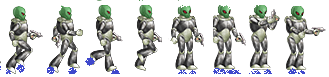
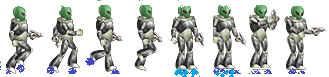
boton

Changed region(s): [[0.5167, 0.8831, 0.6079, 1.0], [0.6383, 0.9091, 0.7295, 1.0]]

diff --git a/index.html b/index.html
@@ -11,11 +11,33 @@
             box-sizing: border-box;
             align-items: center;
         }
-        
+        .contenedor{
+            display: flex;
+            top:550px;
+            margin-left: 10px;
+            flex-direction: row;
+            position:fixed;
+            width: 200px;
+            height: 60px;
+        }
+        button{
+            display: flex;
+            margin-left: 10px;
+            width: 50px;
+            height: 50px;
+            border-radius: 100px;
+            border-color: black 2px solid;
+            background-color: green;
+
+        }
     </style>
 </head>
 <body>
-  
+    <div class="contenedor"> 
+        <button id="btnI"></button>
+        <button id="btnA"></button>
+        <button id="btnD"></button>
+    </div>
     <script>
         var config = {
             type: Phaser.AUTO,
@@ -24,7 +46,7 @@
             physics: {
                 default: 'arcade',
                 arcade:{
-                    gravity: { y: 140}
+                    gravity: { y: 200}
                 }
             },
             scene: {
@@ -36,19 +58,31 @@
         var game = new Phaser.Game(config);
         var player;
         var cursors;
+        var platforms;
         function preload () {
             this.load.image('fondo','imagen/fondo.png');
             this.load.image('virus','imagen/corona.png');
             this.load.image('halo','imagen/halo.png');
             this.load.image('ed','imagen/enemies.png');
             this.load.image('ed2','imagen/enemies.png');
-            this.load.spritesheet('alien','imagen/alienB.png',{frameHeight: 69, frameWidth: 41});
+            this.load.image('plataforma','imagen/Plataforma.png');
+            this.load.spritesheet('alien','imagen/alienBb.png',{frameHeight: 73, frameWidth: 41});
 
         }
 
         function create(){
             this.add.image(400,300,'fondo');
-            player = this.physics.add.sprite(100,450,'alien');
+            player = this.physics.add.sprite(50,50,'alien');
+
+            platforms = this.physics.add.staticGroup();
+            platforms.create(350,550,'plataforma').setScale(2).refreshBody();
+            platforms.create(300,450,'plataforma');
+            platforms.create(150,370,'plataforma').setScale(2).refreshBody();
+            platforms.create(500,150,'plataforma');
+            platforms.create(300,250,'plataforma');
+            
+
+
             var particles = this.add.particles('virus');
             var part = this.add.particles('virus');
             var haloA = this.add.particles('halo');
@@ -86,6 +120,14 @@
             emitter2.startFollow(bacteria2);
             emitter.startFollow(bacteria);
             emitter3.startFollow(player);
+
+            this.physics.add.collider(player,platforms);
+            this.physics.add.collider(player,bacteria);
+            this.physics.add.collider(player,bacteria2);
+            this.physics.add.collider(bacteria,bacteria2);
+            this.physics.add.collider(bacteria,platforms);
+            this.physics.add.collider(bacteria2,platforms);
+
            
 
             this.anims.create({
@@ -121,6 +163,19 @@
 
             cursors = this.input.keyboard.createCursorKeys();
         }
+        const boton_I = document.querySelector('#btnI');
+        boton_I.addEventListener('click', function(){
+            player.setVelocityX(-490);
+        });
+        const boton_D = document.querySelector('#btnD');
+        boton_D.addEventListener('click', function(){
+            player.setVelocityX(490);
+        });
+        const boton_A = document.querySelector('#btnA');
+        boton_A.addEventListener('click', function(){
+            player.setVelocityY(-130);
+        });
+
         function update(){
             if (cursors.left.isDown){
                 player.setVelocityX(-490);
@@ -140,7 +195,7 @@
             }
 
             if (cursors.up.isDown){
-                player.setVelocityY(-230);
+                player.setVelocityY(-130);
             }
         }
     </script>
